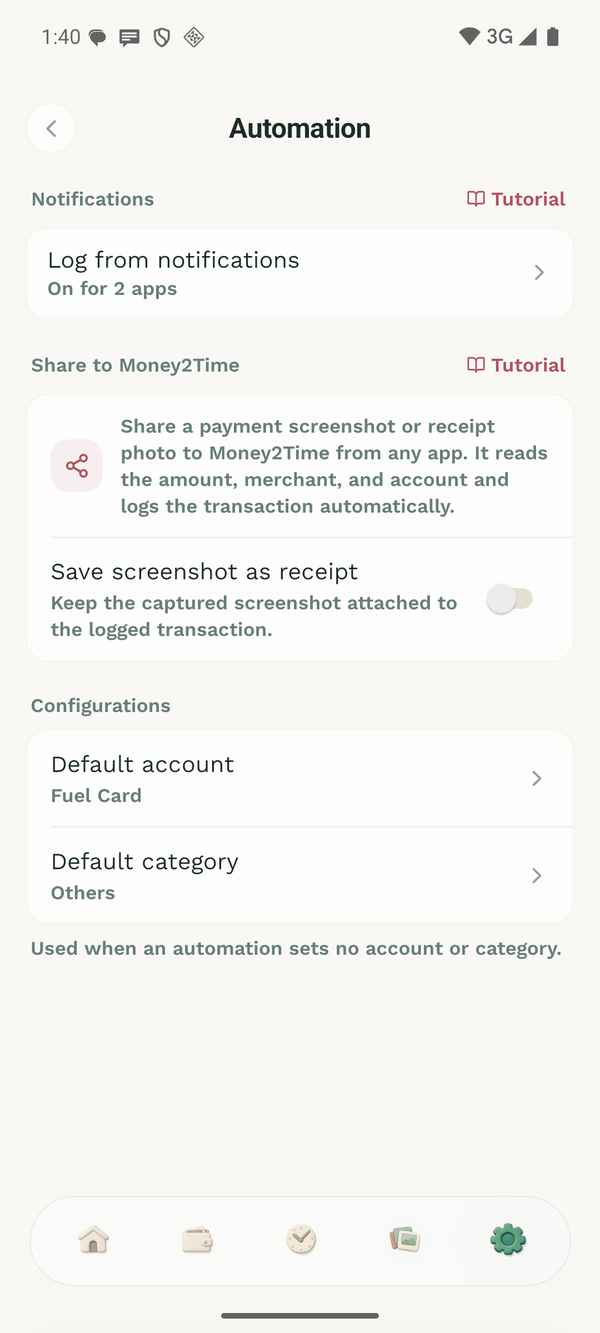
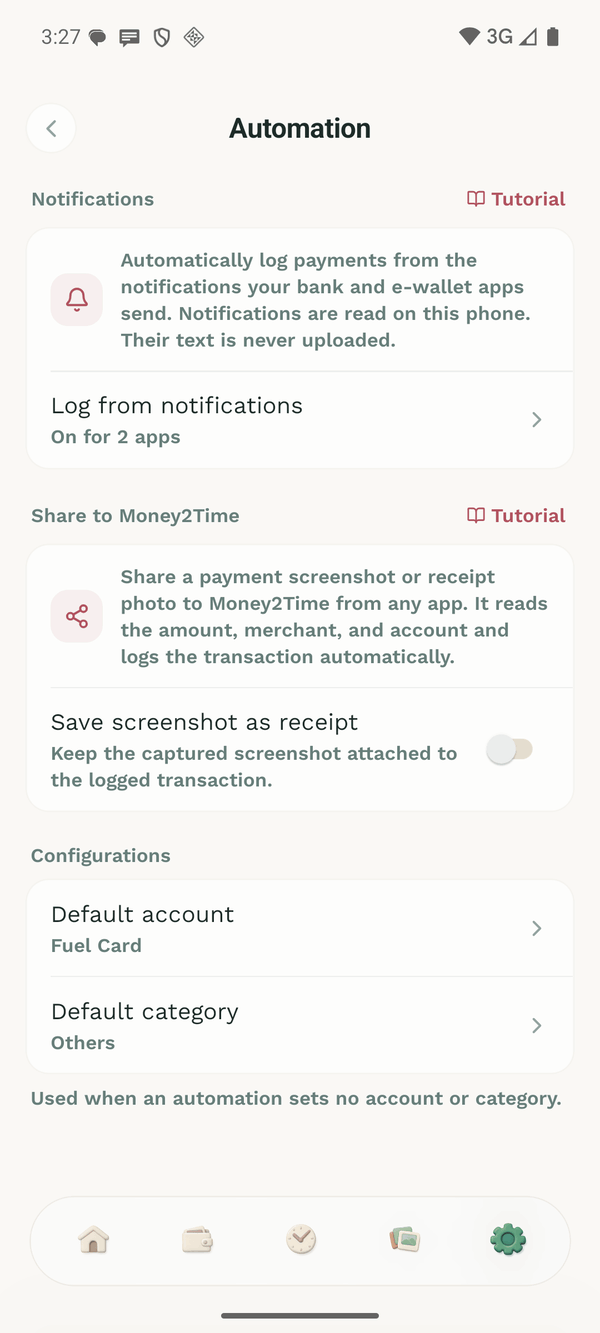
Give the Android Notifications entry the bell card iOS has
The Android Automation section now opens with the same bell icon and
explanation as iOS, followed by the Log from notifications row and its
status. The explanation reuses the shared sentence (its key renamed from
intro_ios to card_intro now that both platforms show it) plus the
existing on-device privacy line.

diff --git a/features/settings/screens/AutoLogSettingsScreen.tsx b/features/settings/screens/AutoLogSettingsScreen.tsx
@@ -150,16 +150,29 @@ function AndroidPaymentAlertsEntry({
         onTutorial={onTutorial}
         tutorialColor={themeColors.primary}
       />
-      <View className="flex-row items-center gap-3 rounded-2xl border border-border/30 bg-card px-4 py-3">
+      {/* Same bell card as iOS, with the in-app setup row underneath. */}
+      <View style={styles.card} className="bg-card border border-border/30">
+        <View style={styles.row}>
+          <View style={[styles.iconBubble, { backgroundColor: `${themeColors.primary}14` }]}>
+            <Bell size={18} color={themeColors.primary} />
+          </View>
+          <View style={styles.rowText}>
+            <Text variant="caption" tone="muted">
+              {I18n.t('payment_alerts.card_intro')}{' '}
+              {I18n.t('payment_alerts.disclosure_point_device')}
+            </Text>
+          </View>
+        </View>
+        <View style={styles.rowDivider} />
         <Pressable
-          className="flex-1 flex-row items-center gap-3"
+          style={styles.row}
           onPress={() => {
             void triggerHaptic('selection');
             onOpen();
           }}
           accessibilityRole="button"
         >
-          <View className="flex-1">
+          <View style={styles.rowText}>
             <Text variant="body" className="text-foreground">
               {I18n.t('settings.auto_log.payment_alerts_open')}
             </Text>
@@ -427,7 +440,7 @@ export function AutoLogSettingsScreen({
                     </View>
                     <View className="flex-1 gap-0.5">
                       <Text variant="caption" tone="muted">
-                        {I18n.t('payment_alerts.intro_ios')}{' '}
+                        {I18n.t('payment_alerts.card_intro')}{' '}
                         {I18n.t(
                           Number.parseInt(String(Platform.Version), 10) >= 27
                             ? 'payment_alerts.ios_notifications_hint'

diff --git a/lib/i18n/locales/hi.ts b/lib/i18n/locales/hi.ts
@@ -2574,7 +2574,7 @@ const hi = {
     title: 'सूचनाएं',
     intro_android:
       'Money2Time आपके चुने हुए बैंकिंग और वॉलेट ऐप्स की भुगतान सूचनाएं पढ़ता है और हर भुगतान आपके लिए दर्ज करता है। सूचनाएं इसी फ़ोन पर पढ़ी जाती हैं और कभी अपलोड नहीं होतीं।',
-    intro_ios: 'अपने बैंक और ई-वॉलेट ऐप की सूचनाओं से भुगतान अपने आप दर्ज करें।',
+    card_intro: 'अपने बैंक और ई-वॉलेट ऐप की सूचनाओं से भुगतान अपने आप दर्ज करें।',
     section_status: 'स्थिति',
     master_label: 'सूचनाएं पढ़ें',
     master_hint: 'आपके चुने हुए ऐप्स के भुगतान दर्ज करता है।',

diff --git a/lib/i18n/locales/th.ts b/lib/i18n/locales/th.ts
@@ -2537,7 +2537,7 @@ const th = {
     title: 'การแจ้งเตือน',
     intro_android:
       'Money2Time อ่านการแจ้งเตือนการชำระเงินจากแอปธนาคารและแอปวอลเล็ตที่คุณเลือก แล้วบันทึกการชำระเงินแต่ละรายการให้คุณ การแจ้งเตือนจะถูกอ่านบนโทรศัพท์เครื่องนี้และไม่ถูกอัปโหลด',
-    intro_ios:
+    card_intro:
       'บันทึกการชำระเงินจากการแจ้งเตือนของแอปธนาคารและกระเป๋าเงินอิเล็กทรอนิกส์โดยอัตโนมัติ',
     section_status: 'สถานะ',
     master_label: 'อ่านการแจ้งเตือน',

diff --git a/lib/i18n/locales/vi.ts b/lib/i18n/locales/vi.ts
@@ -2565,7 +2565,7 @@ const vi = {
     title: 'Thông báo',
     intro_android:
       'Money2Time đọc thông báo thanh toán từ các ứng dụng ngân hàng và ví điện tử bạn chọn, rồi ghi lại từng khoản thanh toán cho bạn. Thông báo được đọc trên điện thoại này và không bao giờ được tải lên.',
-    intro_ios: 'Tự động ghi lại thanh toán từ thông báo của các ứng dụng ngân hàng và ví điện tử.',
+    card_intro: 'Tự động ghi lại thanh toán từ thông báo của các ứng dụng ngân hàng và ví điện tử.',
     section_status: 'Trạng thái',
     master_label: 'Đọc thông báo',
     master_hint: 'Ghi lại thanh toán từ các ứng dụng bạn chọn.',

diff --git a/lib/i18n/locales/ru.ts b/lib/i18n/locales/ru.ts
@@ -2588,7 +2588,7 @@ const ru = {
     title: 'Уведомления',
     intro_android:
       'Money2Time читает уведомления о платежах из выбранных вами банковских приложений и кошельков и записывает каждый платёж за вас. Уведомления читаются на этом телефоне и никогда не загружаются.',
-    intro_ios:
+    card_intro:
       'Автоматически записывайте платежи из уведомлений приложений банков и электронных кошельков.',
     section_status: 'Состояние',
     master_label: 'Читать уведомления',

diff --git a/lib/i18n/locales/uk.ts b/lib/i18n/locales/uk.ts
@@ -2581,7 +2581,7 @@ const uk = {
     title: 'Сповіщення',
     intro_android:
       'Money2Time читає сповіщення про платежі з вибраних вами банківських застосунків і гаманців та записує кожен платіж за вас. Сповіщення читаються на цьому телефоні й ніколи не завантажуються.',
-    intro_ios:
+    card_intro:
       'Автоматично записуйте платежі зі сповіщень застосунків банків та електронних гаманців.',
     section_status: 'Стан',
     master_label: 'Читати сповіщення',

diff --git a/lib/i18n/locales/ja.ts b/lib/i18n/locales/ja.ts
@@ -2567,7 +2567,7 @@ const ja = {
     title: '通知',
     intro_android:
       'Money2Time は、選んだ銀行アプリや電子マネーアプリの支払い通知を読み取り、支払いを1件ずつ記録します。通知はこの端末上で読み取られ、アップロードされることはありません。',
-    intro_ios: '銀行や電子ウォレットのアプリの通知から支払いを自動記録します。',
+    card_intro: '銀行や電子ウォレットのアプリの通知から支払いを自動記録します。',
     section_status: 'ステータス',
     master_label: '通知を読み取る',
     master_hint: '選んだアプリの支払いを記録します。',

diff --git a/lib/i18n/locales/id.ts b/lib/i18n/locales/id.ts
@@ -2596,7 +2596,8 @@ const id = {
     title: 'Notifikasi',
     intro_android:
       'Money2Time membaca notifikasi pembayaran dari aplikasi bank dan dompet digital yang Anda pilih, lalu mencatat setiap pembayaran untuk Anda. Notifikasi dibaca di ponsel ini dan tidak pernah diunggah.',
-    intro_ios: 'Catat pembayaran secara otomatis dari notifikasi aplikasi bank dan dompet digital.',
+    card_intro:
+      'Catat pembayaran secara otomatis dari notifikasi aplikasi bank dan dompet digital.',
     section_status: 'Status',
     master_label: 'Baca notifikasi',
     master_hint: 'Mencatat pembayaran dari aplikasi yang Anda pilih.',

diff --git a/lib/i18n/locales/tr.ts b/lib/i18n/locales/tr.ts
@@ -2593,7 +2593,8 @@ const tr = {
     title: 'Bildirimler',
     intro_android:
       'Money2Time, seçtiğiniz banka ve cüzdan uygulamalarının ödeme bildirimlerini okur ve her ödemeyi sizin için kaydeder. Bildirimler bu telefonda okunur ve asla yüklenmez.',
-    intro_ios: 'Banka ve e-cüzdan uygulamalarınızın bildirimlerindeki ödemeleri otomatik kaydedin.',
+    card_intro:
+      'Banka ve e-cüzdan uygulamalarınızın bildirimlerindeki ödemeleri otomatik kaydedin.',
     section_status: 'Durum',
     master_label: 'Bildirimleri oku',
     master_hint: 'Seçtiğiniz uygulamalardaki ödemeleri kaydeder.',

diff --git a/lib/i18n/locales/ko.ts b/lib/i18n/locales/ko.ts
@@ -2548,7 +2548,7 @@ const ko = {
     title: '알림',
     intro_android:
       'Money2Time이 선택한 은행 앱과 간편결제 앱의 결제 알림을 읽고 결제를 하나하나 기록합니다. 알림은 이 기기에서만 읽으며 업로드되지 않습니다.',
-    intro_ios: '은행 및 전자 지갑 앱의 알림으로 결제를 자동으로 기록합니다.',
+    card_intro: '은행 및 전자 지갑 앱의 알림으로 결제를 자동으로 기록합니다.',
     section_status: '상태',
     master_label: '알림 읽기',
     master_hint: '선택한 앱의 결제를 기록합니다.',

diff --git a/lib/i18n/locales/nl.ts b/lib/i18n/locales/nl.ts
@@ -2612,7 +2612,7 @@ const nl = {
     title: 'Meldingen',
     intro_android:
       'Money2Time leest de betaalmeldingen van de bank- en wallet-apps die je kiest en registreert elke betaling voor je. Meldingen worden op deze telefoon gelezen en nooit geüpload.',
-    intro_ios: 'Leg betalingen automatisch vast uit de meldingen van je bank- en wallet-apps.',
+    card_intro: 'Leg betalingen automatisch vast uit de meldingen van je bank- en wallet-apps.',
     section_status: 'Status',
     master_label: 'Meldingen lezen',
     master_hint: 'Registreert betalingen uit de apps die je kiest.',

diff --git a/lib/i18n/locales/nb.ts b/lib/i18n/locales/nb.ts
@@ -2582,7 +2582,8 @@ const nb = {
     title: 'Varsler',
     intro_android:
       'Money2Time leser betalingsvarslene fra bank- og lommebokappene du velger, og registrerer hver betaling for deg. Varsler leses på denne telefonen og lastes aldri opp.',
-    intro_ios: 'Registrer betalinger automatisk fra varslene bank- og lommebok-appene dine sender.',
+    card_intro:
+      'Registrer betalinger automatisk fra varslene bank- og lommebok-appene dine sender.',
     section_status: 'Status',
     master_label: 'Les varsler',
     master_hint: 'Registrerer betalinger fra appene du velger.',
